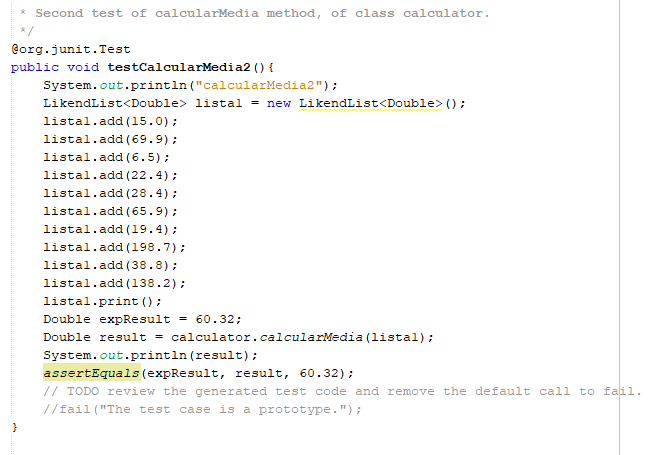
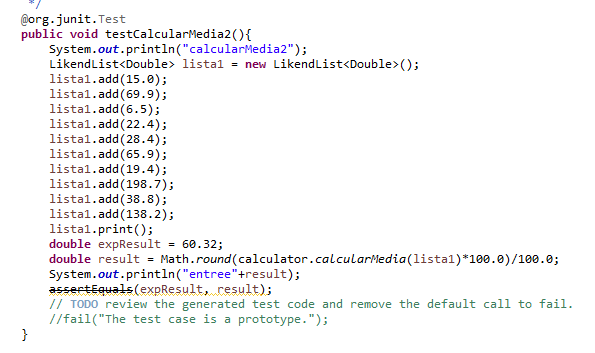
pruebas2

Changed region(s): [[0.0, 0.0, 0.9681, 0.9348], [0.0303, 0.9348, 0.0605, 0.966]]

diff --git a/src/test/java/edu/escualing/arep/calculator/calculatorTest.java b/src/test/java/edu/escualing/arep/calculator/calculatorTest.java
@@ -58,10 +58,10 @@ public class calculatorTest {
         lista1.add(624.0);
         lista1.add(1503.0);
       // lista1.imprimir();
-        Double expResult = 550.6;
-        Double result = calculator.calcularMedia(lista1);
+        double expResult = 550.6;
+        double result = Math.round(calculator.calcularMedia(lista1)*100.0)/100.0;
         System.out.println(result);
-        assertEquals(expResult, result, 550.6);
+        assertEquals(expResult, result);
         // TODO review the generated test code and remove the default call to fail.
         //fail("The test case is a prototype.");
     }
@@ -83,10 +83,10 @@ public class calculatorTest {
         lista1.add(38.8);
         lista1.add(138.2);
         lista1.print();
-        Double expResult = 60.32;
-        Double result = calculator.calcularMedia(lista1);
-        System.out.println(result);
-        assertEquals(expResult, result, 60.32);
+        double expResult = 60.32;
+        double result = Math.round(calculator.calcularMedia(lista1)*100.0)/100.0;
+        System.out.println("entree"+result);
+        assertEquals(expResult, result);
         // TODO review the generated test code and remove the default call to fail.
         //fail("The test case is a prototype.");
     }
@@ -108,10 +108,10 @@ public class calculatorTest {
         lista1.add(1657.0);
         lista1.add(624.0);
         lista1.add(1503.0);
-        Double expResult = 572.03;
-        Double result = calculator.calcularDesviacion(lista1);
+        double expResult = 572.03;
+        double result = Math.round(calculator.calcularDesviacion(lista1)*100.0)/100.0;
         System.out.println(result);
-        assertEquals(expResult, result, 572.03);
+        assertEquals(expResult, result);
         // TODO review the generated test code and remove the default call to fail.
        // fail("The test case is a prototype.");
     }
@@ -131,10 +131,10 @@ public class calculatorTest {
         lista1.add(198.7);
         lista1.add(38.8);
         lista1.add(138.2);
-        Double expResult = 62.26;
-        Double result = calculator.calcularDesviacion(lista1);
+        double expResult = 62.26;
+        double result = Math.round(calculator.calcularDesviacion(lista1)*100.0)/100.0;
         System.out.println(result);
-        assertEquals(expResult, result, 62.26);
+        assertEquals(expResult, result);
         // TODO review the generated test code and remove the default call to fail.
        // fail("The test case is a prototype.");
     }
